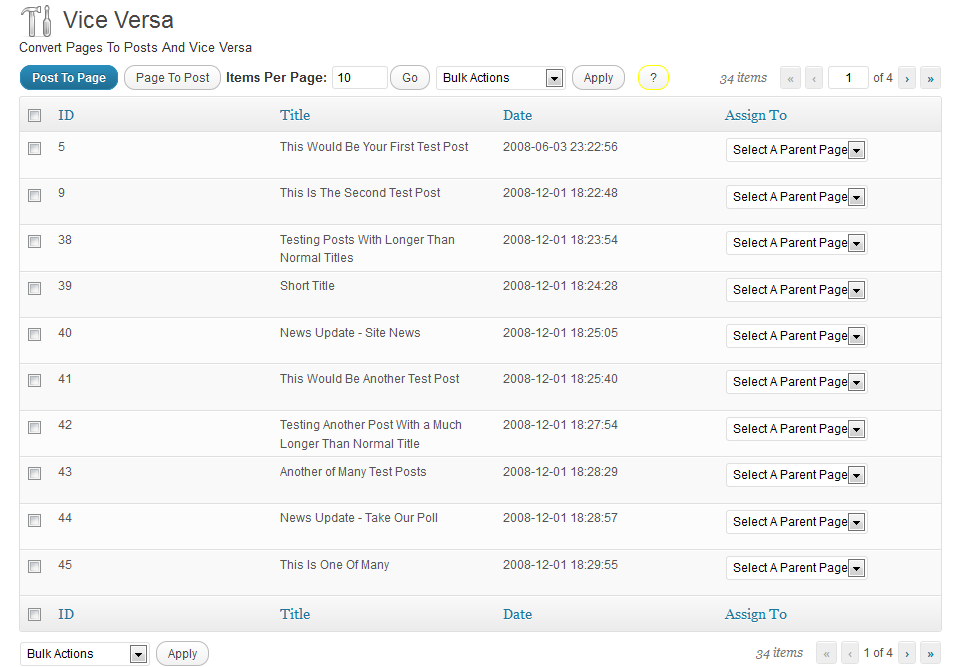
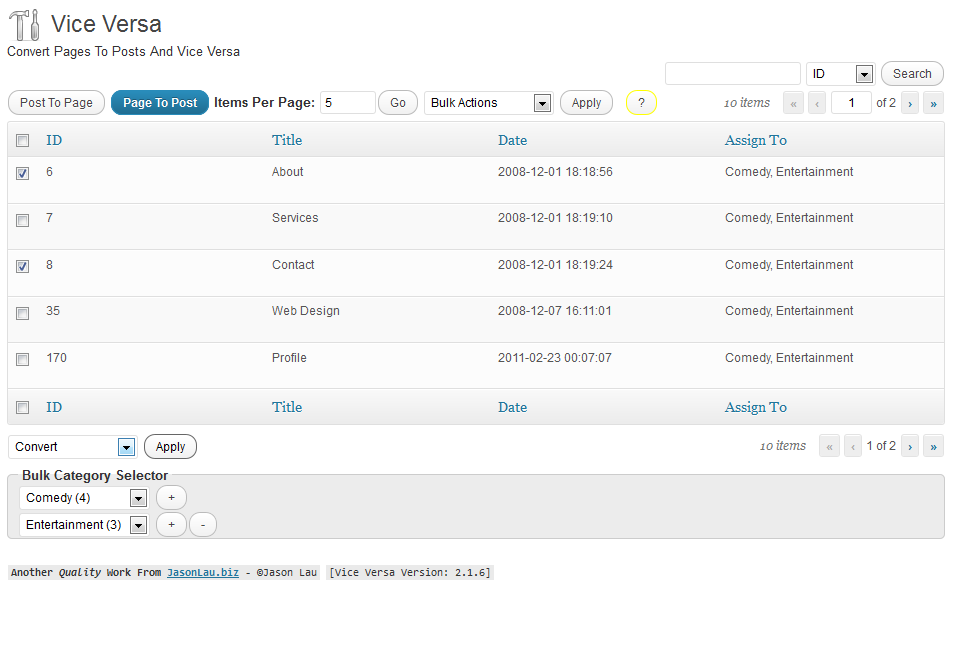
Version 2.1.6 adds search field.

diff --git a/vice-versa.php b/vice-versa.php
@@ -4,7 +4,7 @@
  * Plugin Name: Vice Versa
  * Plugin URI: http://jasonlau.biz
  * Description: Convert Pages to Posts and Vice Versa
- * Version: 2.1.5
+ * Version: 2.1.6
  * Author: Jason Lau
  * Author URI: http://jasonlau.biz
  * Disclaimer: Use at your own risk. No warranty expressed or implied.
@@ -27,7 +27,7 @@
  */
 
 
-define('VICEVERSA_VERSION', '2.1.5');
+define('VICEVERSA_VERSION', '2.1.6');
 define('VICEVERSA_DEBUG', false); // Test this plugin
 
 load_plugin_textdomain('vice-versa', '/wp-content/plugins/vice-versa/vice-versa.pot');
@@ -252,11 +252,12 @@ class ViceVersa_List_Table extends WP_List_Table {
         
         $orderby = (!$_REQUEST['orderby']) ? '' : ' ORDER BY ' . $_REQUEST['orderby'];
         $order = (!$_REQUEST['order']) ? '' : ' ' . $_REQUEST['order'];
+        $search = (!$_REQUEST['s']) ? "" : " AND " . $_REQUEST['viceversa_search_mode'] . " REGEXP '" . $_REQUEST['s'] . "'";        
         
         if(!current_user_can($post_type_object->cap->edit_others_posts)):
-            $query = "SELECT * FROM $wpdb->posts  WHERE post_type = '$p_type' AND post_status NOT IN ( 'trash', 'auto-draft' ) AND post_author = " . get_current_user_id() . $orderby . $order;
+            $query = "SELECT * FROM $wpdb->posts  WHERE post_type = '$p_type' AND post_status NOT IN ( 'trash', 'auto-draft' ) AND post_author = " . get_current_user_id() . $search . $orderby . $order;
         else:
-         $query = "SELECT * FROM $wpdb->posts  WHERE post_type = '$p_type' AND post_status NOT IN ( 'trash', 'auto-draft' ) " . $orderby . $order;   
+         $query = "SELECT * FROM $wpdb->posts  WHERE post_type = '$p_type' AND post_status NOT IN ( 'trash', 'auto-draft' ) " . $search . $orderby . $order;   
         endif;
         
         $data = $wpdb->get_results($query);
@@ -356,7 +357,7 @@ function viceversa_display(){
         background: #ECECEC;
         border: 1px solid #CCC;
         padding: 0 10px;
-        margin-top: 5px;
+        margin: 5px 0px;
         border-radius: 5px;
         -moz-border-radius: 5px;
         -webkit-border-radius: 5px;
@@ -393,6 +394,7 @@ function viceversa_display(){
             <input type="hidden" name="page" value="<?php echo $_REQUEST['page'] ?>" />
             <input type="hidden" id="p-type" name="p_type" value="<?php echo $p_type ?>" />
             <input type="hidden" id="per-page-hidden" name="per_page" value="10" />
+            <div id="viceversa-search"><?php $wp_list_table->search_box(__('Search'), 'post') ?></div>
             <?php $wp_list_table->display() ?>
         </form>
 <div id="viceversa-assign-to" style="display: none;"><div class="viceversa-assign-to-menu"><?php echo $wp_list_table->assign_to($p_type);?></div></div>
@@ -469,6 +471,7 @@ jQuery.cookie = function(name, value, options) {
     jQuery(function($){
 	   $("div.actions").first().prepend('<input type="button" class="vv-mode action <?php if($p_type == 'post') echo "button-primary"; else echo "button-secondary"; ?>" rel="post" value="<?php _e('Post To Page', 'vice-versa') ?>" /> <input type="button" class="vv-mode action <?php if($p_type == 'page') echo "button-primary"; else echo "button-secondary"; ?>" rel="page" value="<?php _e('Page To Post', 'vice-versa') ?>" /> <strong><?php _e('Items Per Page', 'vice-versa') ?>:</strong> <input type="text" id="per-page" size="4" value="<?php echo $per_page ?>" /><input class="vv-go button-secondary action" type="submit" value="<?php _e('Go', 'vice-versa') ?>" />');
        $("#doaction").after(' <input class="vv-help button-secondary hidden" type="button" value="?" title="Info" />');
+       $("#post-search-input").after(' <select class="vv-search-mode" name="viceversa_search_mode"><option value="ID"<?php if($_REQUEST['viceversa_search_mode'] == 'ID'): ?> selected="selected"<?php endif; ?>>ID</option><option value="post_title"<?php if(!$_REQUEST['viceversa_search_mode'] || $_REQUEST['viceversa_search_mode'] == 'post_title'): ?> selected="selected"<?php endif; ?>>Title</option><option value="post_date"<?php if($_REQUEST['viceversa_search_mode'] == 'post_date'): ?> selected="selected"<?php endif; ?>>Date</option><option value="post_content"<?php if($_REQUEST['viceversa_search_mode'] == 'post_content'): ?> selected="selected"<?php endif; ?>>Content</option></select>');
        $('.vv-help').css('border-color','#FFFF00');
        $(".vv-mode").each(function(){
 	   $(this).bind('mouseup',function(){
